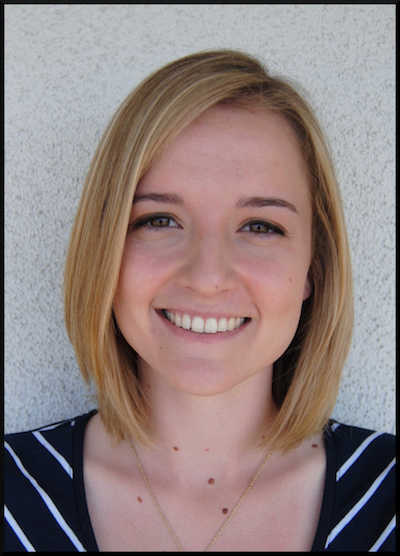
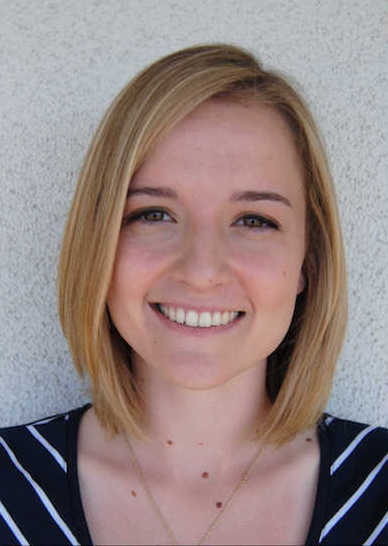
Cropped avatar2.jpg and editing photo captions in index.html

diff --git a/index.html b/index.html
@@ -5,11 +5,11 @@ subtitle: "PhD Student / Statistician "
 meta-title: "Lindsay Berry"
 meta-description: "Graduate student at Duke University studying statistics, with an interest in Bayesian forecasting and time series"
 bigimg:
-    - "/img/big-imgs/austin.jpg" : "'Austin, Texas from Lady Bird Lake' by Shane Pope. (CC BY 2.0)"
+    - "/img/big-imgs/austin.jpg" : "'Austin, Texas from Lady Bird Lake' by Shane Pope (CC BY 2.0)"
     - "/img/big-imgs/washingtonpass.jpg" : "Washington Pass, WA"
     - "/img/big-imgs/grandcanyon.jpg" : "Grand Canyon National Park"
     - "/img/big-imgs/santabarbara.jpg" : "Santa Barbara, CA"
-    - "/img/big-imgs/dukegardens.jpg" : "'Duke Gardens' by jaimehag. (CC BY-NC-SA 2.0)"
+    - "/img/big-imgs/dukegardens.jpg" : "'Duke Gardens' by jaimehag (CC BY-NC-SA 2.0)"
 ---
 
 <!-- {% if page.url == "/" %} -->
